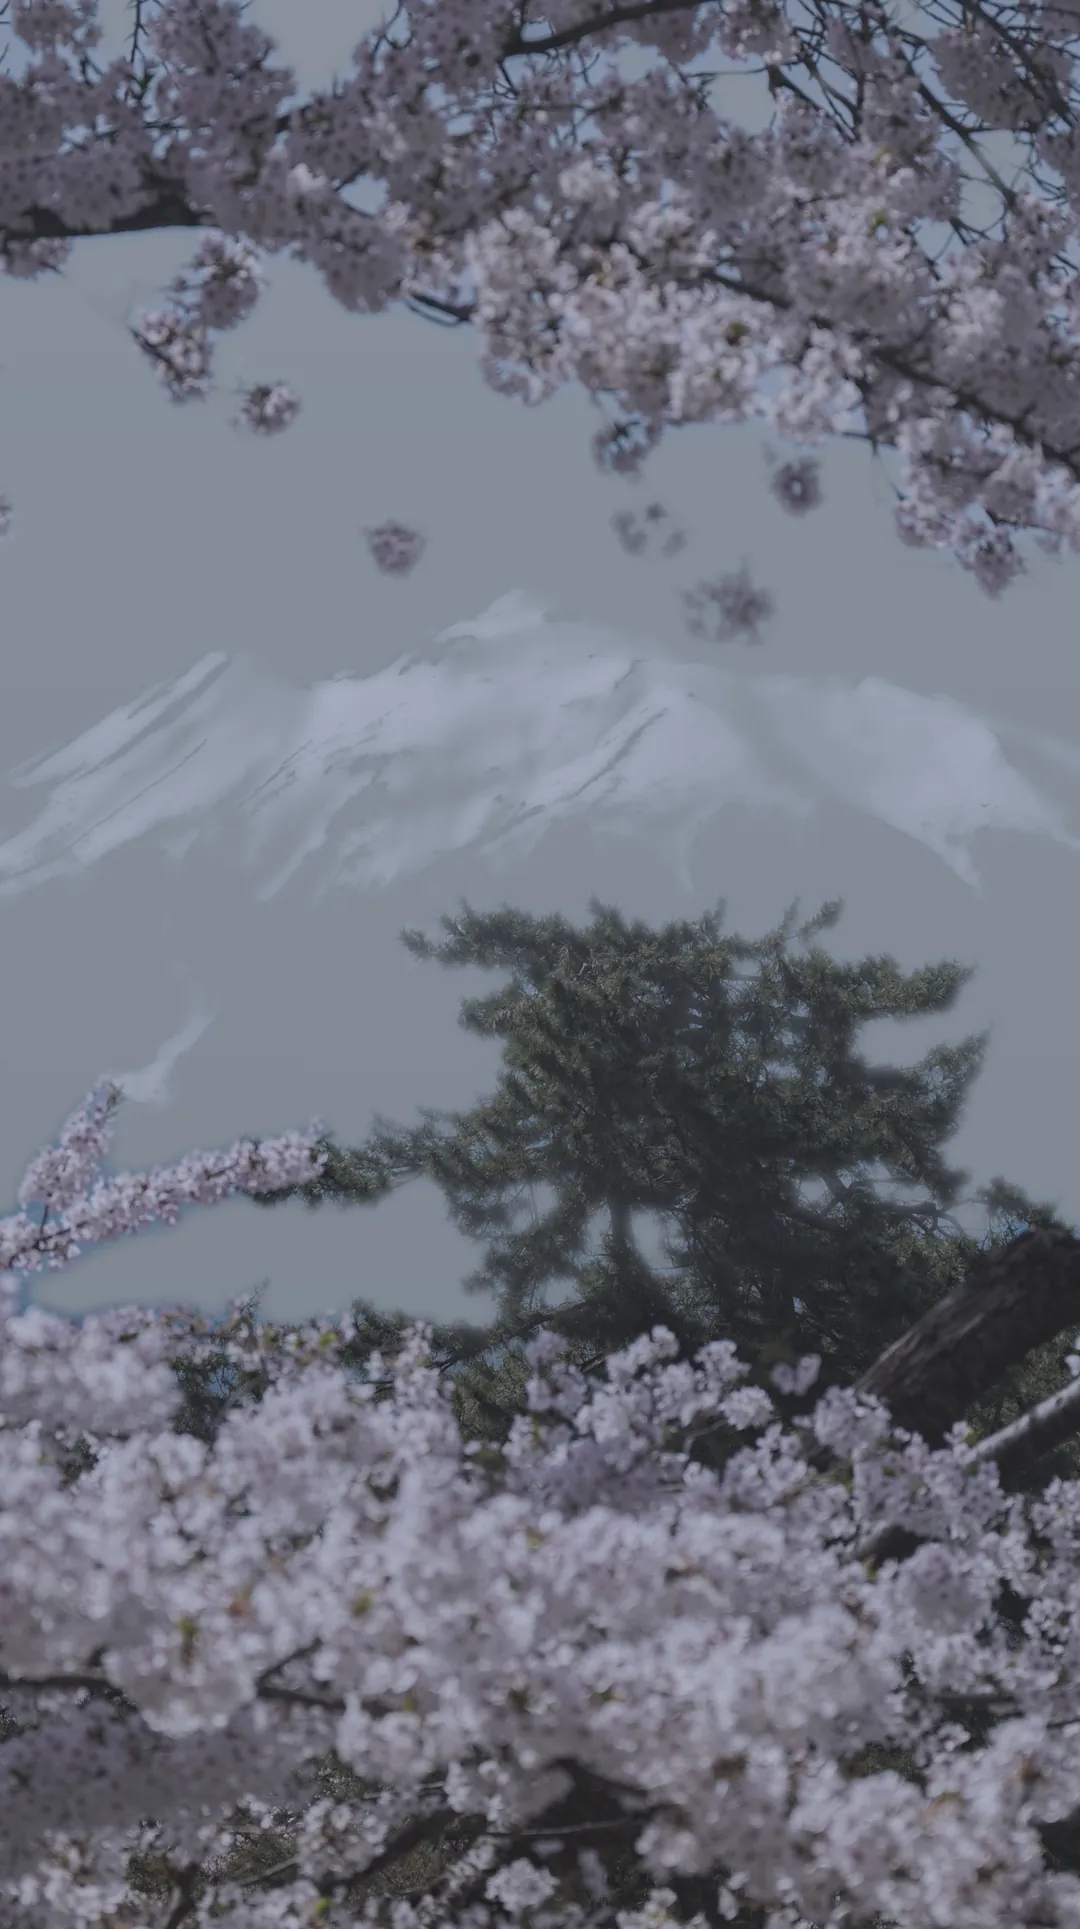
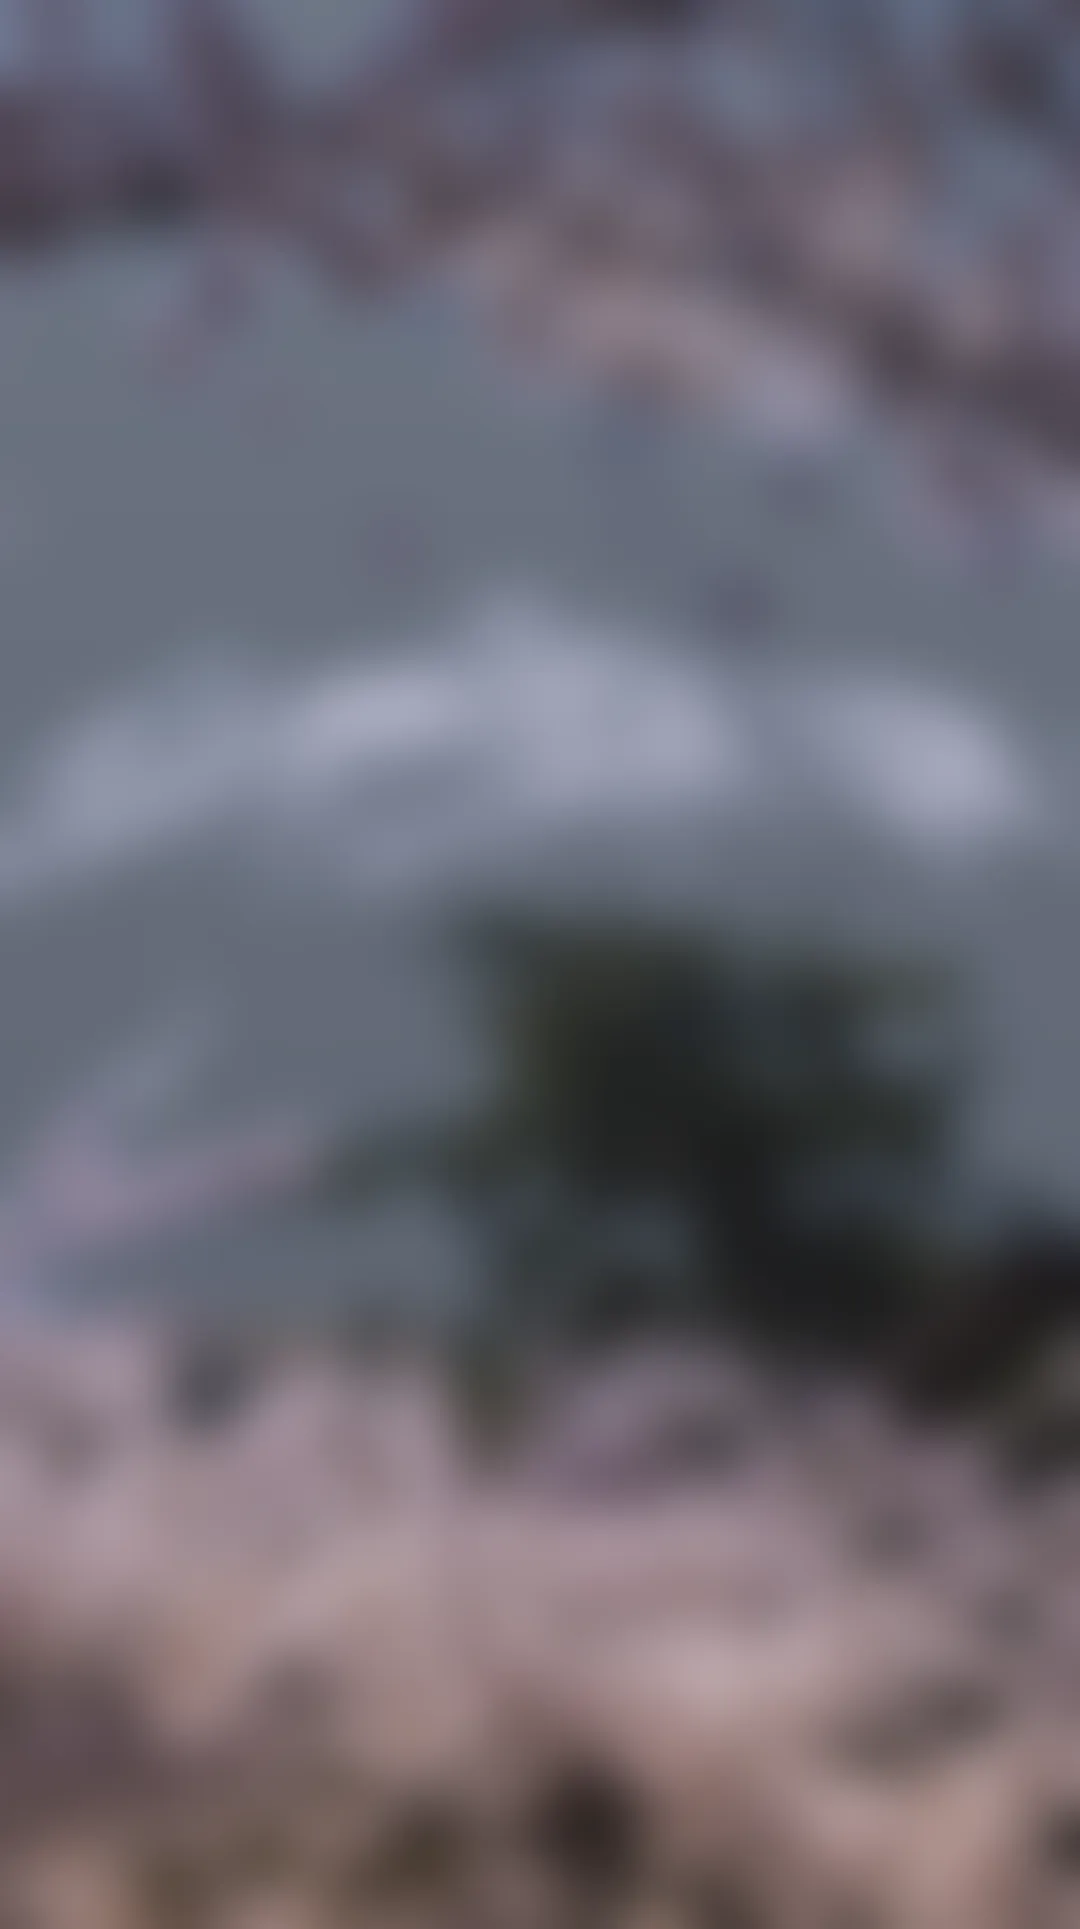
Rain and snow: focus on the glass, not the view
Side by side with 曦曦's reference photos, ours looked like stickers on
a sharp picture. Through a wet or frosted window the camera focuses on
the glass, so:
- rain and snow pictures are now defocused; drops and crystals read as
  being on the glass. Rain keeps its colour (moody, a bit warmer low
  down) instead of going flat grey
- snow is dusk after snowfall: a pink-to-peach sky over cold blue
  shapes, alpenglow on the peak
- snow gets dark window bars with snow on the ledge, and grainy rime
  that's thickest along the bottom, the edges and against the bars

Claude-Session: https://claude.ai/code/session_01VeyUfbswLRhZfFBCuma8nm

diff --git a/src/window/effects.js b/src/window/effects.js
@@ -345,10 +345,59 @@ function crystal(size, seed) {
   return c;
 }
 
+// Ice crust on the glass and the window bars in front of it, drawn once:
+// rime is thickest along the bottom, the edges and against the bars.
+function frostAndFrame(w, h, dpr) {
+  const c = document.createElement("canvas");
+  c.width = w;
+  c.height = h;
+  const g = c.getContext("2d");
+  const barX = w * 0.58;
+  const barY = h * 0.4;
+  const bar = 13 * dpr;
+  const speck = softDot(8, "rgba(255,255,255,1)");
+  const count = Math.round((w * h) / (30 * dpr * dpr));
+  for (let i = 0; i < count; i += 1) {
+    const x = Math.random() * w;
+    const y = Math.random() * h;
+    const fade = (v) => Math.max(0, v); // 1 right at the edge, 0 past the reach
+    const near = Math.max(
+      (y / h) ** 6,
+      fade(1 - Math.min(x, w - x) / (w * 0.16)) ** 2,
+      fade(1 - Math.min(y, h - y) / (h * 0.08)) ** 2,
+      fade(1 - Math.abs(x - barX) / (w * 0.06)) ** 3,
+      fade(1 - Math.abs(y - barY) / (h * 0.04)) ** 3
+    );
+    if (Math.random() > near) continue;
+    const r = rand(0.6, 3.2) * dpr;
+    g.globalAlpha = rand(0.25, 0.85);
+    g.drawImage(speck, x - r, y - r, r * 2, r * 2);
+  }
+  g.globalAlpha = 1;
+  // the bars: dark painted wood, a soft highlight on one edge
+  g.fillStyle = "#2b2f3c";
+  g.fillRect(barX - bar / 2, 0, bar, h);
+  g.fillRect(0, barY - bar / 2, w, bar);
+  g.fillStyle = "rgba(255, 255, 255, .12)";
+  g.fillRect(barX - bar / 2, 0, bar * 0.25, h);
+  // snow resting on the ledge of the cross bar
+  g.fillStyle = "#f4f7fb";
+  g.beginPath();
+  g.moveTo(0, barY - bar / 2);
+  for (let x = 0; x <= w; x += 6 * dpr) {
+    g.lineTo(x, barY - bar / 2 - rand(1.5, 4.5) * dpr);
+  }
+  g.lineTo(w, barY - bar / 2);
+  g.closePath();
+  g.fill();
+  return c;
+}
+
 export function snow(canvas) {
   let flakes = [];
   let stuck = [];
   let stickIn = 0;
+  let frame = null;
   const sprite = softDot(32, "rgba(255,255,255,.95)");
   const crystals = [1, 2, 3, 4, 5].map((seed) => crystal(96, seed));
   // outside the glass: far, middle and near; the near ones big and blurred
@@ -387,6 +436,7 @@ export function snow(canvas) {
     }
     stuck = [];
     for (let i = 0; i < Math.round((w * h) / (14000 * dpr * dpr)); i += 1) stuck.push(newStuck(w, h, 1));
+    frame = frostAndFrame(w, h, dpr);
   });
 
   // flakes that land on the glass and stay, crisp, slowly piling up
@@ -444,6 +494,7 @@ export function snow(canvas) {
       ctx.restore();
     }
     ctx.globalAlpha = 1;
+    if (frame) ctx.drawImage(frame, 0, 0);
   });
 }
 

diff --git a/tools/make-window.py b/tools/make-window.py
@@ -67,20 +67,33 @@ def weathers(im, depth_img, outdir):
     def save(x, name):
         Image.fromarray((np.clip(x, 0, 1) * 255).astype(np.uint8)).save(f"{outdir}/{name}.webp", quality=80, method=6)
 
-    # rain: grey, cool, flat, a bit of haze in the distance
-    x = a * 0.55 + lum * 0.45
-    x = x * [0.86, 0.9, 1.0] * 0.78 + 0.04
-    overcast = (0.55 + 0.1 * (1 - yy)) * np.array([0.78, 0.82, 0.88])
-    x = x * (1 - sky) + overcast * sky
-    x = x * (1 - far[..., None] * 0.35) + np.array([0.6, 0.64, 0.7]) * far[..., None] * 0.35
-    save(x, "rain")
+    # Rain and snow are seen the way a camera sees them through a wet or
+    # frosted window: focused on the glass, so the outside goes soft. That
+    # blur is what makes the drops and crystals read as being on the glass.
+    def defocus(x, k=40):
+        img = Image.fromarray((np.clip(x, 0, 1) * 255).astype(np.uint8))
+        return img.filter(ImageFilter.GaussianBlur(W / k))
 
-    # snow: soft white light, low contrast, sky like snow cloud
-    x = a * 0.6 + lum * 0.4
-    x = x * 0.85 + 0.15
-    x = x * (1 - sky) + np.array([0.86, 0.88, 0.92]) * sky
-    x = x * (1 - far[..., None] * 0.3) + 0.9 * far[..., None] * 0.3
-    save(x, "snow")
+    # rain: keep the colour, dimmer and moodier under a slate sky, a little
+    # warmer low down where wet things hold the light
+    x = (a * 0.85 + lum * 0.15) ** 1.15 * [0.82, 0.83, 0.9]
+    x = x * (1 + np.clip(yy - 0.55, 0, 1) * np.array([0.5, 0.3, 0.05]))
+    overcast = (0.5 + 0.12 * (1 - yy)) * np.array([0.7, 0.75, 0.84])
+    x = x * (1 - sky) + overcast * sky
+    defocus(x).save(f"{outdir}/rain.webp", quality=80, method=6)
+
+    # snow: dusk after snowfall — a pink and peach sky over cold blue shapes,
+    # the snowy peak catching the last warm light
+    dusk = np.select(
+        [yy < 0.25, yy < 0.5],
+        [np.array([0.62, 0.6, 0.76]) + (np.array([0.93, 0.76, 0.76]) - [0.62, 0.6, 0.76]) * (yy / 0.25),
+         np.array([0.93, 0.76, 0.76]) + (np.array([1.0, 0.84, 0.68]) - [0.93, 0.76, 0.76]) * ((yy - 0.25) / 0.25)],
+        np.array([1.0, 0.84, 0.68]),
+    )
+    x = (a * 0.45 + lum * 0.55) * [0.55, 0.62, 0.82]
+    x += np.clip(lum - 0.7, 0, 1) * far[..., None] * [0.9, 0.7, 0.75]  # alpenglow on the snow
+    x = x * (1 - sky) + dusk * sky
+    defocus(x, 36).save(f"{outdir}/snow.webp", quality=80, method=6)
 
     # night: deep blue, moonlit snow on the mountain, sky to night gradient
     night_sky = (np.array([0.04, 0.06, 0.16]) * (1 - yy) + np.array([0.1, 0.13, 0.3]) * yy)
